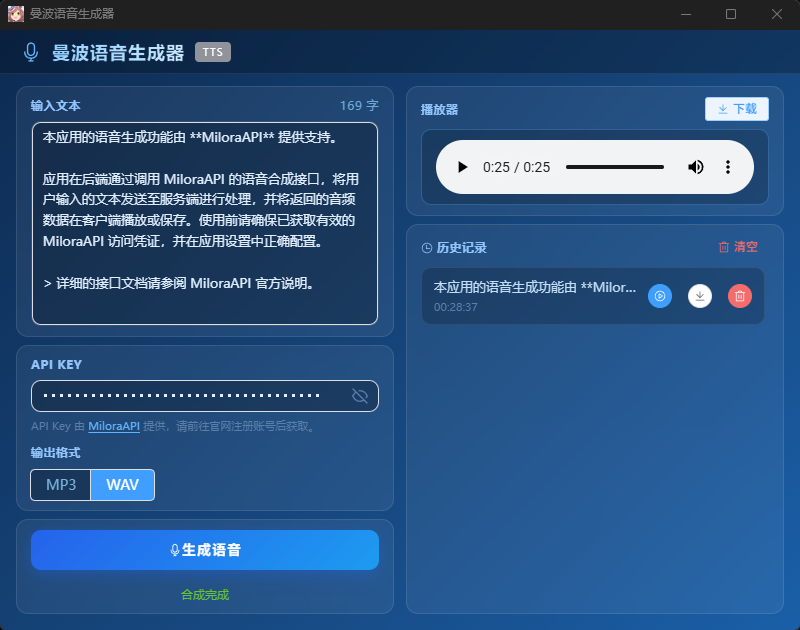
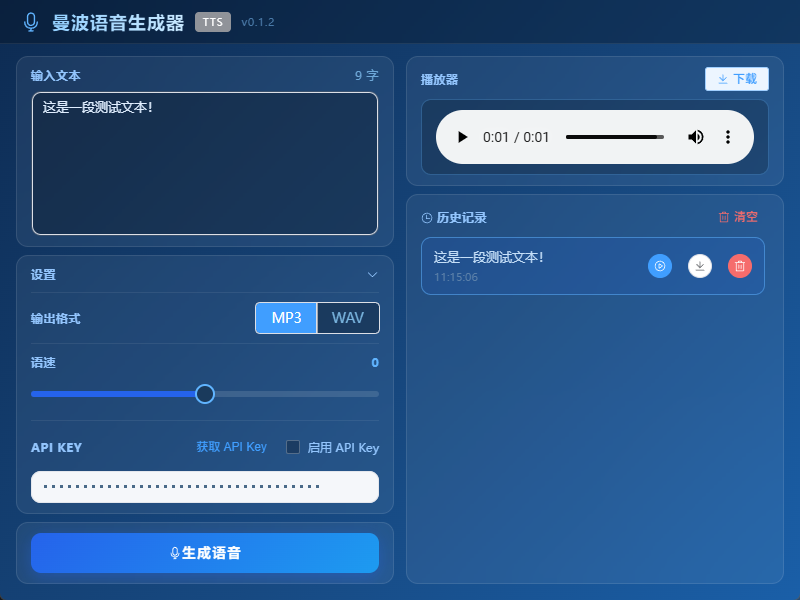
更新版本至0.1.2，新增语速调节和自定义API Key支持，优化设置面板，修复显示问题

diff --git a/src/App.vue b/src/App.vue
@@ -1,7 +1,8 @@
 <script setup lang="ts">
 import { ref, computed, nextTick, watch } from "vue";
 import { invoke } from "@tauri-apps/api/core";
-import { Microphone, Download, Delete, VideoPlay, VideoPause, Clock } from "@element-plus/icons-vue";
+import { openUrl } from "@tauri-apps/plugin-opener";
+import { Microphone, Download, Delete, VideoPlay, VideoPause, Clock, ArrowDown } from "@element-plus/icons-vue";
 
 // ─────────────────────────────────────────────
 // 类型定义
@@ -74,11 +75,28 @@ watch(
 /** 音频格式 */
 const audioFormat = ref<"mp3" | "wav">(localStorage.getItem("tts_audio_format") === "wav" ? "wav" : "mp3");
 
+/** 是否启用 API Key */
+const useApiKey = ref<boolean>(localStorage.getItem("tts_use_api_key") === "true");
+
+/** 用户输入的 API Key */
+const apiKey = ref<string>(localStorage.getItem("tts_api_key") ?? "");
+
+/** 语速，范围 -50 ~ 50，默认 0 */
+const speed = ref<number>(Number(localStorage.getItem("tts_speed") ?? "0"));
+
+watch(useApiKey, (val) => localStorage.setItem("tts_use_api_key", String(val)));
+watch(apiKey, (val) => localStorage.setItem("tts_api_key", val));
+watch(speed, (val) => localStorage.setItem("tts_speed", String(val)));
+
+/** 设置面板是否展开，默认展开 */
+const settingsExpanded = ref<boolean>(localStorage.getItem("tts_settings_expanded") !== "false");
+watch(settingsExpanded, (val) => localStorage.setItem("tts_settings_expanded", String(val)));
+
 // ─────────────────────────────────────────────
 // 计算属性
 // ─────────────────────────────────────────────
 const canGenerate = computed(
-  () => inputText.value.trim().length > 0 && !isGenerating.value
+  () => inputText.value.trim().length > 0 && !isGenerating.value && (!useApiKey.value || apiKey.value.trim().length > 0)
 );
 const textLength = computed(() => inputText.value.length);
 
@@ -103,11 +121,15 @@ async function generateSpeech(): Promise<void> {
     const dataUrl = await invoke<string>("synthesize_speech", {
       text: inputText.value,
       format: audioFormat.value,
+      apiKey: useApiKey.value ? apiKey.value : "",
+      speed: speed.value,
     });
     audioSrc.value = dataUrl;
     addToHistory(dataUrl);
-    // 保存输出格式
+    // 保存输出格式及 api key 设置
     localStorage.setItem("tts_audio_format", audioFormat.value);
+    localStorage.setItem("tts_use_api_key", String(useApiKey.value));
+    if (useApiKey.value) localStorage.setItem("tts_api_key", apiKey.value);
     statusMessage.value = "合成完成";
     statusType.value = "success";
   } catch (e) {
@@ -203,6 +225,7 @@ function formatTime(date: Date): string {
         <el-icon class="brand-icon"><Microphone /></el-icon>
         <span class="brand-title">曼波语音生成器</span>
         <el-tag size="small" effect="dark" type="info" class="brand-tag">TTS</el-tag>
+        <span class="brand-version">v0.1.2</span>
       </div>
     </header>
 
@@ -227,13 +250,62 @@ function formatTime(date: Date): string {
           />
         </div>
 
-        <!-- 格式选择 -->
-        <div class="panel-section">
-          <div class="section-label">输出格式</div>
-          <el-radio-group v-model="audioFormat" :disabled="isGenerating" class="format-group">
-            <el-radio-button value="mp3">MP3</el-radio-button>
-            <el-radio-button value="wav">WAV</el-radio-button>
-          </el-radio-group>
+        <!-- 格式 / 语速 / API Key -->
+        <div class="panel-section settings-card">
+          <!-- 标题行，点击折叠 -->
+          <div class="setting-row settings-header" @click="settingsExpanded = !settingsExpanded">
+            <span class="setting-label">设置</span>
+            <el-icon class="settings-arrow" :class="{ collapsed: !settingsExpanded }"><ArrowDown /></el-icon>
+          </div>
+
+          <transition name="settings-collapse">
+            <div v-show="settingsExpanded" class="settings-body">
+              <!-- 输出格式 -->
+              <div class="setting-divider" />
+              <div class="setting-row">
+                <span class="setting-label">输出格式</span>
+                <el-radio-group v-model="audioFormat" :disabled="isGenerating" class="format-group">
+                  <el-radio-button value="mp3">MP3</el-radio-button>
+                  <el-radio-button value="wav">WAV</el-radio-button>
+                </el-radio-group>
+              </div>
+
+              <div class="setting-divider" />
+
+              <!-- 语速 -->
+              <div class="setting-row">
+                <span class="setting-label">语速</span>
+                <span class="speed-value">{{ speed > 0 ? `+${speed}` : speed }}</span>
+              </div>
+              <el-slider
+                v-model="speed"
+                :min="-50"
+                :max="50"
+                :step="1"
+                :disabled="isGenerating"
+                class="speed-slider"
+              />
+
+              <div class="setting-divider" />
+
+              <!-- API Key -->
+              <div class="setting-row">
+                <span class="setting-label">API Key</span>
+                <div style="display:flex;align-items:center;gap:8px;">
+                  <el-button size="small" text type="primary" @click="openUrl('https://api.milorapart.top/')">获取 API Key</el-button>
+                  <el-checkbox v-model="useApiKey" :disabled="isGenerating">启用 API Key</el-checkbox>
+                </div>
+              </div>
+              <el-input
+                v-model="apiKey"
+                type="password"
+                show-password
+                placeholder="输入 Bearer Token…"
+                :disabled="!useApiKey || isGenerating"
+                class="key-input"
+              />
+            </div>
+          </transition>
         </div>
 
         <!-- 生成按钮 + 状态 -->
@@ -415,6 +487,12 @@ function formatTime(date: Date): string {
   letter-spacing: 1px;
 }
 
+.brand-version {
+  font-size: 11px;
+  color: #4a7aa8;
+  letter-spacing: 0.5px;
+}
+
 /* ─── 主布局 ─── */
 .main-layout {
   flex: 1;
@@ -490,9 +568,23 @@ function formatTime(date: Date): string {
   letter-spacing: 0;
 }
 
-.key-input :deep(.el-input__wrapper.is-focus) {
-  border-color: #60b4ff;
-  box-shadow: 0 0 0 2px rgba(96, 180, 255, 0.2);
+.text-input :deep(.el-textarea__inner:disabled),
+.text-input :deep(.el-textarea__inner[disabled]) {
+  background: rgba(0, 0, 0, 0.25) !important;
+  color: #7a9fc0 !important;
+  -webkit-text-fill-color: #7a9fc0 !important;
+  cursor: not-allowed;
+}
+
+.key-input :deep(.el-input__wrapper.is-disabled) {
+  background: rgba(0, 0, 0, 0.2) !important;
+  border-color: rgba(255, 255, 255, 0.08) !important;
+  box-shadow: none !important;
+}
+
+.key-input :deep(.el-input__inner:disabled) {
+  color: #4a6a88 !important;
+  -webkit-text-fill-color: #4a6a88 !important;
 }
 
 .key-eye {
@@ -524,6 +616,107 @@ function formatTime(date: Date): string {
   color: #93d0ff;
 }
 
+/* ─── 设置卡片 ─── */
+.settings-card {
+  display: flex;
+  flex-direction: column;
+  gap: 8px;
+}
+
+.settings-header {
+  cursor: pointer;
+  user-select: none;
+}
+
+.settings-header:hover .setting-label {
+  color: #c0d8f8;
+}
+
+.settings-arrow {
+  color: #93c5fd;
+  font-size: 13px;
+  transition: transform 0.25s ease;
+}
+
+.settings-arrow.collapsed {
+  transform: rotate(-90deg);
+}
+
+.settings-body {
+  display: flex;
+  flex-direction: column;
+  gap: 8px;
+}
+
+.settings-collapse-enter-active,
+.settings-collapse-leave-active {
+  transition: opacity 0.25s ease, transform 0.25s ease;
+  transform-origin: top;
+}
+
+.settings-collapse-enter-from,
+.settings-collapse-leave-to {
+  opacity: 0;
+  transform: scaleY(0.9);
+}
+
+.setting-row {
+  display: flex;
+  align-items: center;
+  justify-content: space-between;
+}
+
+.setting-label {
+  font-size: 12px;
+  font-weight: 600;
+  color: #93c5fd;
+  text-transform: uppercase;
+  letter-spacing: 0.5px;
+}
+
+.setting-divider {
+  height: 1px;
+  background: rgba(255, 255, 255, 0.07);
+  margin: 2px 0;
+}
+
+
+.speed-value {
+  font-size: 12px;
+  color: #60b4ff;
+  font-weight: 600;
+  font-variant-numeric: tabular-nums;
+}
+
+.speed-slider :deep(.el-slider__runway) {
+  background: rgba(255, 255, 255, 0.12);
+}
+
+.speed-slider :deep(.el-slider__bar) {
+  background: #2563eb;
+}
+
+.speed-slider :deep(.el-slider__button) {
+  border-color: #60b4ff;
+  background: #1a3a5c;
+}
+
+/* el-checkbox 暗色适配 */
+:deep(.el-checkbox__label) {
+  color: #93c5fd;
+  font-size: 12px;
+}
+
+:deep(.el-checkbox__inner) {
+  background: rgba(0, 0, 0, 0.25);
+  border-color: rgba(255, 255, 255, 0.25);
+}
+
+:deep(.el-checkbox.is-checked .el-checkbox__inner) {
+  background: #2563eb;
+  border-color: #2563eb;
+}
+
 .format-group :deep(.el-radio-button__inner) {
   background: rgba(0, 0, 0, 0.25);
   border-color: rgba(255, 255, 255, 0.15);
@@ -535,6 +728,31 @@ function formatTime(date: Date): string {
   border-color: #2563eb;
   color: #fff;
   box-shadow: -1px 0 0 0 #2563eb;
+}
+
+.format-group :deep(.el-radio-button.is-disabled .el-radio-button__inner) {
+  background: rgba(0, 0, 0, 0.2) !important;
+  border-color: rgba(255, 255, 255, 0.08) !important;
+  color: #4a6a88 !important;
+}
+
+.format-group :deep(.el-radio-button.is-disabled.is-active .el-radio-button__inner) {
+  background: #1a4aaa !important;
+  border-color: #1a4aaa !important;
+  color: #8ab4d8 !important;
+}
+
+.speed-slider :deep(.el-slider.is-disabled .el-slider__runway) {
+  background: rgba(255, 255, 255, 0.08);
+}
+
+.speed-slider :deep(.el-slider.is-disabled .el-slider__bar) {
+  background: #1a4aaa;
+}
+
+.speed-slider :deep(.el-slider.is-disabled .el-slider__button) {
+  border-color: #3a6a9a;
+  background: #1a3a5c;
 }
 
 /* ─── 文本输入 ─── */

diff --git a/src-tauri/src/lib.rs b/src-tauri/src/lib.rs
@@ -1,14 +1,28 @@
 /// 调用曼波 TTS API，解析 JSON 响应，直接返回音频 URL。
 #[tauri::command]
-async fn synthesize_speech(text: String, format: String) -> Result<String, String> {
+async fn synthesize_speech(text: String, format: String, api_key: String, speed: i32) -> Result<String, String> {
     let client = reqwest::Client::new();
     // 只允许 mp3 / wav，其余回退到 mp3
     let fmt = if format == "wav" { "wav" } else { "mp3" };
+    let speed_str = speed.to_string();
 
-    let response = client
+    let mut query = vec![
+        ("text", text.as_str()),
+        ("format", fmt),
+        ("speed", speed_str.as_str()),
+    ];
+    if !api_key.is_empty() {
+        query.push(("key", api_key.as_str()));
+    }
+
+    let mut req = client
         .get("https://api.milorapart.top/apis/mbAIsc")
-        .query(&[("text", text.as_str()), ("format", fmt)])
-        .bearer_auth("")
+        .query(&query);
+    if !api_key.is_empty() {
+        req = req.bearer_auth(&api_key);
+    }
+
+    let response = req
         .send()
         .await
         .map_err(|e| format!("网络请求失败：{}", e))?;

diff --git a/README.md b/README.md
@@ -23,14 +23,34 @@
 ## 功能特性
 
 - 文本转语音（TTS）生成
-- Windows 桌面应用
-- 轻量、快速，基于 Rust 后端
+- 支持 MP3 / WAV 输出格式
+- 语速调节（-50 ~ +50）
+- 支持自定义 API Key（Bearer Token）
+- 历史记录（含播放、下载、删除）
+- Windows 桌面应用，轻量快速，基于 Rust 后端
+
+## 更新日志
+
+### v0.1.2
+- 新增语速调节（-50 ~ +50）
+- 新增自定义 API Key 支持（Bearer Token + `key` 参数）
+- 设置面板支持折叠/展开，状态持久化
+- 修复合成中背景变白的显示问题
+
+### v0.1.1
+- 去掉 API Key 强制要求
+
+### v0.1.0
+- 初始版本发布
 
 ## API 说明
 
 本应用的语音生成功能由 **MiloraAPI** 提供支持。
 
-应用在后端通过调用 MiloraAPI 的语音合成接口，将用户输入的文本发送至服务端进行处理，并将返回的音频数据在客户端播放或保存。使用前请确保已获取有效的 MiloraAPI 访问凭证，并在应用设置中正确配置。
+应用在后端通过调用 MiloraAPI 的语音合成接口，将用户输入的文本发送至服务端进行处理，并将返回的音频数据在客户端播放或保存。
+
+- 每个 IP 每天享有 **50 次免费调用**
+- 超出免费额度后需使用 API Key，请前往 [api.milorapart.top](https://api.milorapart.top/) 获取，并在应用设置中启用并填写
 
 > 详细的接口文档请参阅 MiloraAPI 官方说明。
 
@@ -67,7 +87,7 @@ pnpm tauri build
 ## 项目结构
 
 ```
-rhythm-editor/
+manbo-tts/
 ├── src/              # Vue 前端源码
 ├── src-tauri/        # Rust 后端源码
 │   ├── src/
